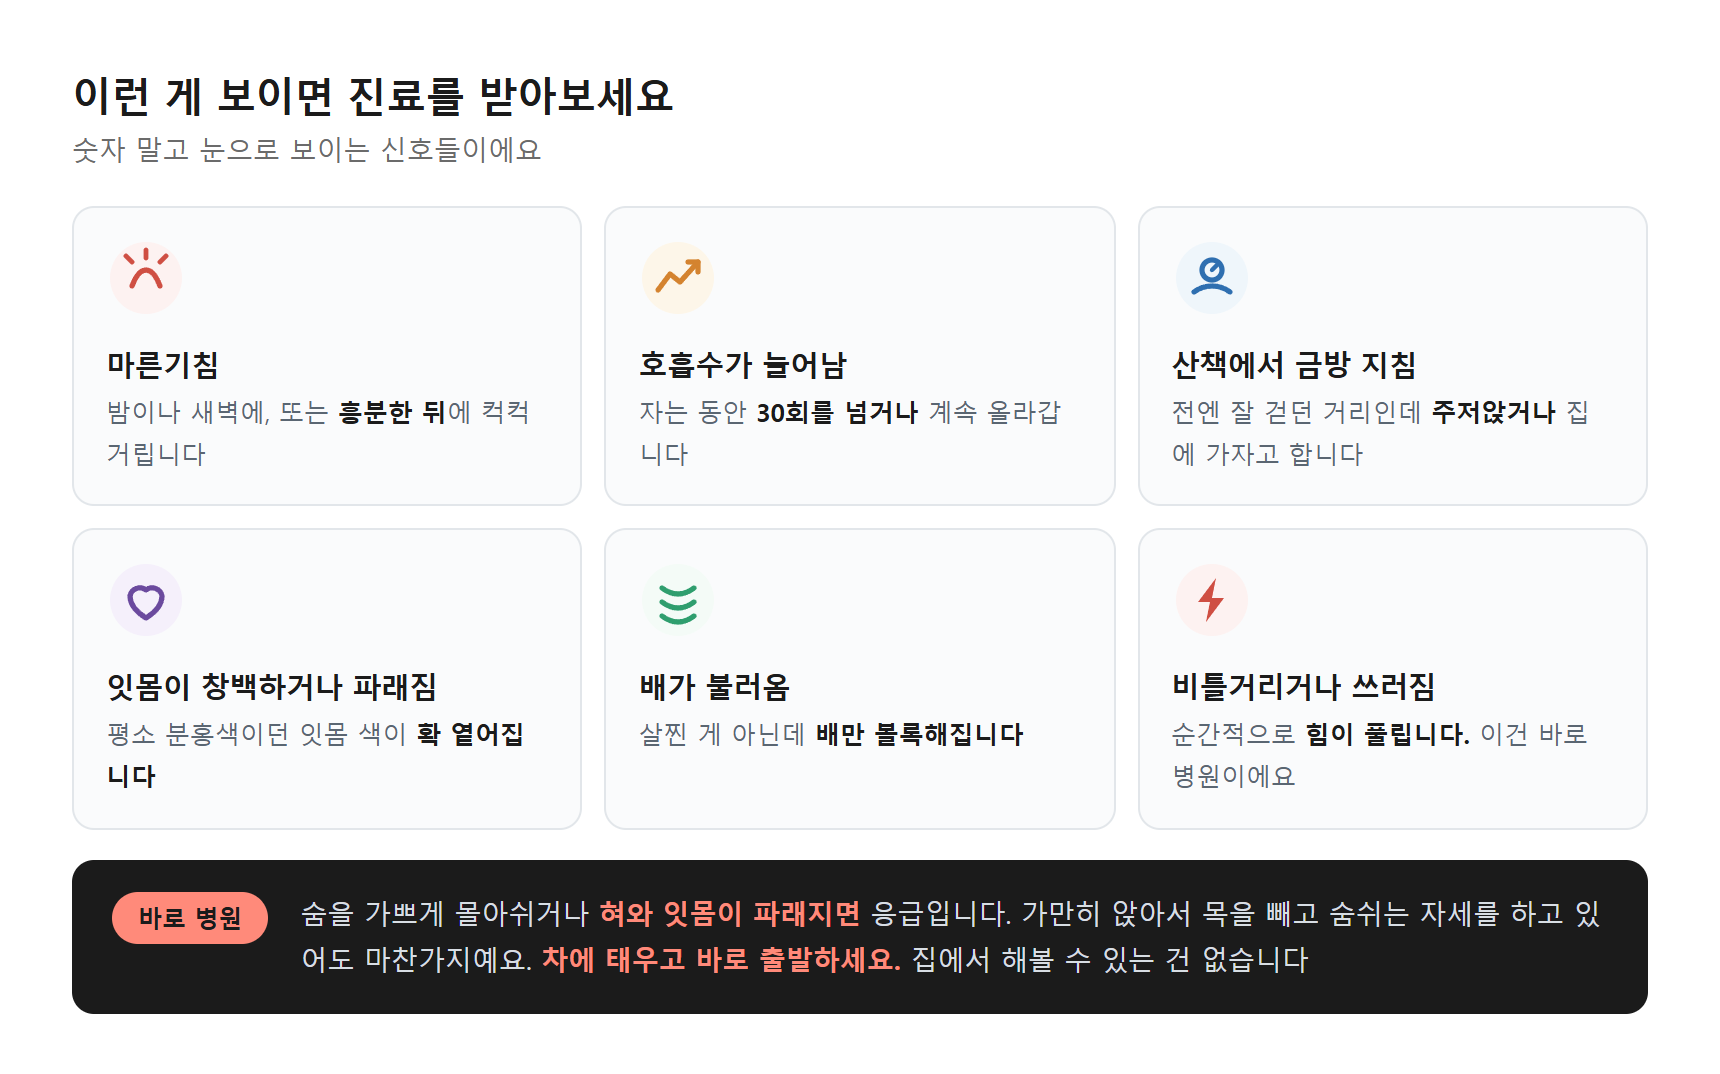
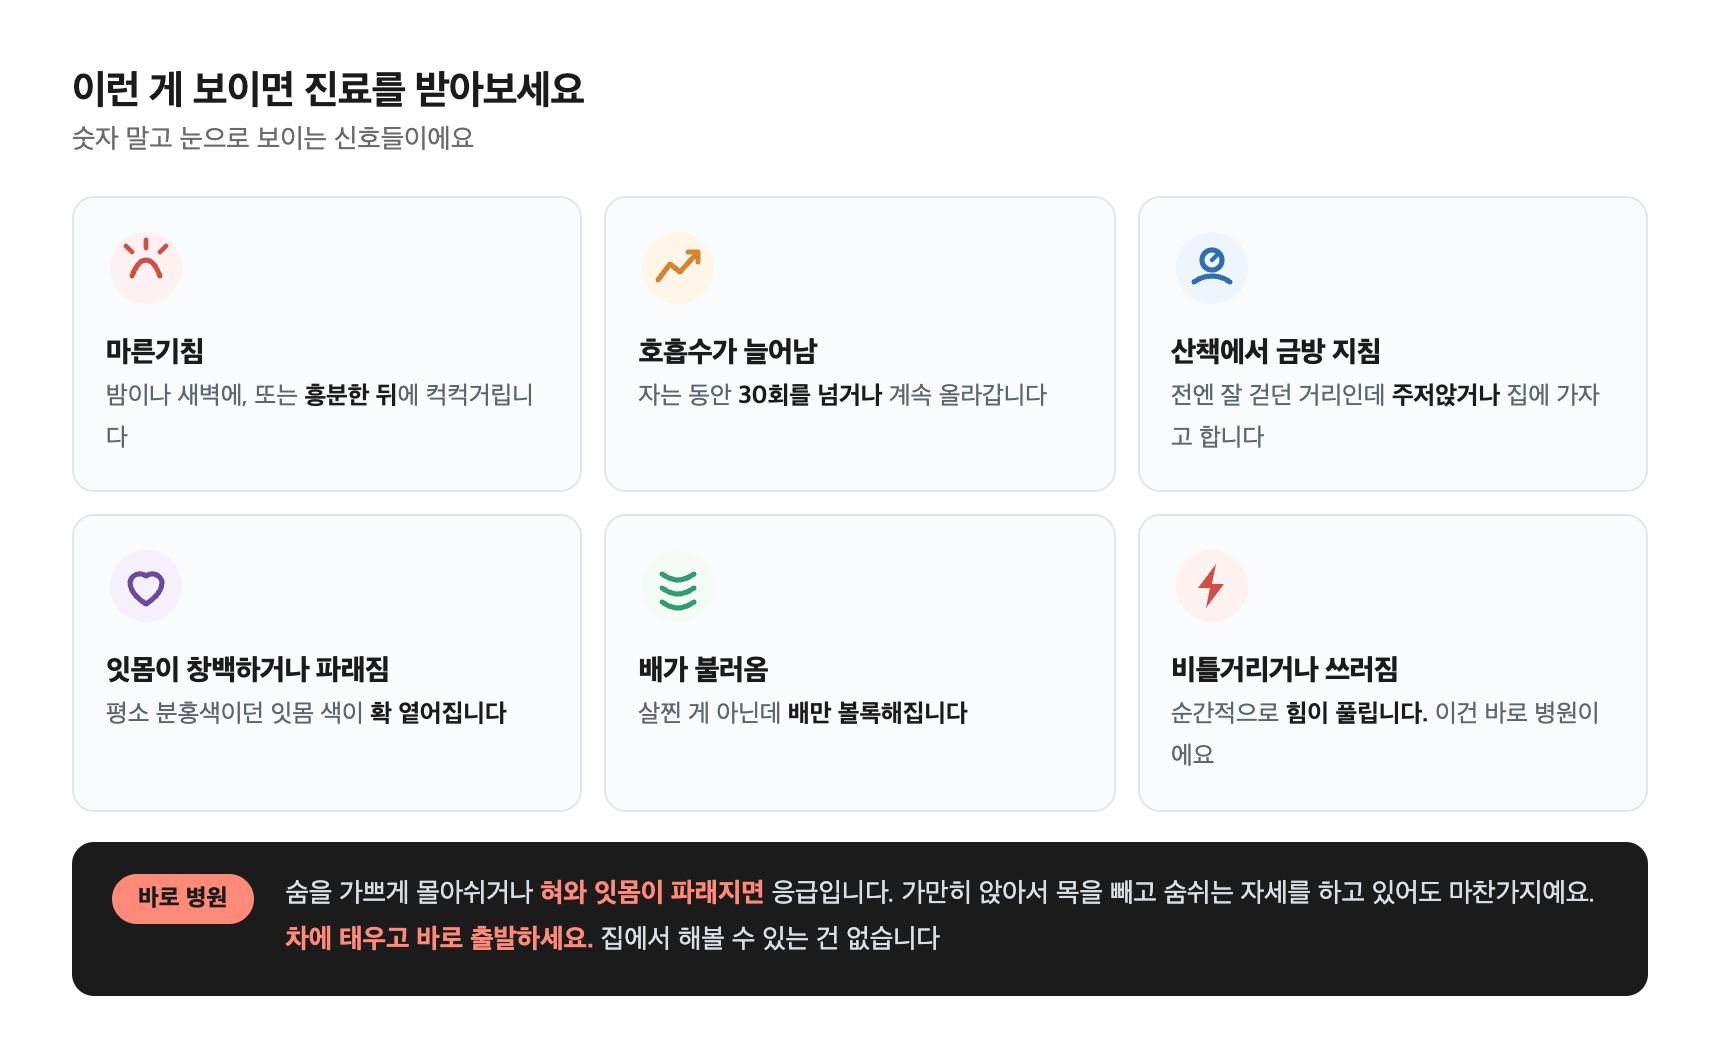
실손24 실손보험 청구 원고 + 도식 6종 (앱 3단계·소멸시효 3년·참여기관 확대)

diff --git a/art/si02-app.html b/art/si02-app.html
@@ -1,0 +1,52 @@
+<!doctype html>
+<meta charset="utf-8" />
+<style>
+  * { box-sizing: border-box; margin: 0; padding: 0; }
+  body { background: #fff; }
+  #art { width: 860px; padding: 32px 40px 30px; background: #f2f7f7;
+    font-family: 'Pretendard','Malgun Gothic',-apple-system,sans-serif; color: #1f3a3a; }
+  h1 { font-size: 23px; letter-spacing: -0.6px; margin-bottom: 4px; }
+  .sub { font-size: 13.5px; color: #6e8585; margin-bottom: 22px; font-weight: 600; }
+  .steps { display: flex; align-items: stretch; gap: 8px; }
+  .step { flex: 1; background: #fff; border-radius: 16px; padding: 20px 16px 18px; text-align: center;
+    box-shadow: 0 6px 16px rgba(40,90,90,.08); border: 1px solid #dcece9; }
+  .n { width: 30px; height: 30px; border-radius: 50%; background: #0d9488; color: #fff; font-size: 15px;
+    font-weight: 800; display: flex; align-items: center; justify-content: center; margin: 0 auto 10px; }
+  .ic { height: 62px; display: flex; align-items: center; justify-content: center; }
+  .t { font-size: 15.5px; font-weight: 800; margin-top: 8px; }
+  .d { font-size: 12.5px; color: #5f7d7b; line-height: 1.5; margin-top: 5px; }
+  .ar { flex: none; display: flex; align-items: center; color: #9bc9c3; font-size: 22px; font-weight: 800; }
+  .note { margin-top: 16px; background: #e3f0ef; border-radius: 12px; padding: 13px 18px; font-size: 13px;
+    color: #3f5f5d; line-height: 1.6; text-align: center; }
+  .note b { color: #0d8074; }
+</style>
+
+<div id="art">
+  <h1>실손24 앱, 3단계면 끝나요</h1>
+  <p class="sub">챙길 서류 하나도 없어요. 앱 안에서 다 돼요</p>
+
+  <div class="steps">
+    <div class="step">
+      <div class="n">1</div>
+      <div class="ic"><svg width="54" height="56" viewBox="0 0 54 56"><rect x="15" y="4" width="24" height="42" rx="5" fill="#0d9488"/><rect x="19" y="9" width="16" height="28" rx="2" fill="#e6f6f3"/><path d="M27,16 v11 M23,23 l4,4 4,-4" stroke="#0d9488" stroke-width="2.5" fill="none" stroke-linecap="round" stroke-linejoin="round"/><circle cx="27" cy="41" r="2" fill="#e6f6f3"/></svg></div>
+      <div class="t">앱 설치</div>
+      <div class="d">'실손24' 검색<br />(보험개발원 공식)</div>
+    </div>
+    <div class="ar">→</div>
+    <div class="step">
+      <div class="n">2</div>
+      <div class="ic"><svg width="54" height="56" viewBox="0 0 54 56"><rect x="8" y="8" width="38" height="40" rx="4" fill="#fff" stroke="#0d9488" stroke-width="2"/><g><rect x="14" y="16" width="7" height="7" rx="1.5" fill="#0d9488"/><path d="M15.5,19.5 l1.5,1.5 2.5,-3" stroke="#fff" stroke-width="1.5" fill="none" stroke-linecap="round" stroke-linejoin="round"/><line x1="25" y1="19" x2="40" y2="19" stroke="#b7d8d3" stroke-width="3" stroke-linecap="round"/></g><g><rect x="14" y="27" width="7" height="7" rx="1.5" fill="#0d9488"/><path d="M15.5,30.5 l1.5,1.5 2.5,-3" stroke="#fff" stroke-width="1.5" fill="none" stroke-linecap="round" stroke-linejoin="round"/><line x1="25" y1="30" x2="40" y2="30" stroke="#b7d8d3" stroke-width="3" stroke-linecap="round"/></g><g><rect x="14" y="38" width="7" height="7" rx="1.5" fill="#cfe6e2"/><line x1="25" y1="41" x2="36" y2="41" stroke="#dcece9" stroke-width="3" stroke-linecap="round"/></g></svg></div>
+      <div class="t">진료내역 선택</div>
+      <div class="d">병원·약국 방문<br />기록에서 고르기</div>
+    </div>
+    <div class="ar">→</div>
+    <div class="step">
+      <div class="n">3</div>
+      <div class="ic"><svg width="54" height="56" viewBox="0 0 54 56"><path d="M8,26 L46,10 L38,48 L26,36 Z" fill="#0d9488"/><path d="M46,10 L26,36 L26,46 L33,38" fill="#0b7a6f"/><circle cx="40" cy="42" r="12" fill="#3fb98a"/><path d="M35,42 l3.5,3.5 6,-7" stroke="#fff" stroke-width="2.5" fill="none" stroke-linecap="round" stroke-linejoin="round"/></svg></div>
+      <div class="t">자동 전송</div>
+      <div class="d">보험사로 바로 전송<br />10분이면 청구 완료</div>
+    </div>
+  </div>
+
+  <div class="note">본인 것뿐 아니라 <b>자녀가 부모님 것</b>을, 배우자·위임 대리인이 대신 청구하는 것도 돼요</div>
+</div>

diff --git a/art/si01-change.html b/art/si01-change.html
@@ -1,0 +1,59 @@
+<!doctype html>
+<meta charset="utf-8" />
+<style>
+  * { box-sizing: border-box; margin: 0; padding: 0; }
+  body { background: #fff; }
+  #art { width: 860px; padding: 32px 40px 30px; background: #f2f7f7;
+    font-family: 'Pretendard','Malgun Gothic',-apple-system,sans-serif; color: #1f3a3a; }
+  h1 { font-size: 23px; letter-spacing: -0.6px; margin-bottom: 4px; }
+  .sub { font-size: 13.5px; color: #6e8585; margin-bottom: 22px; font-weight: 600; }
+  .row { display: flex; align-items: center; gap: 14px; }
+  .card { flex: 1; background: #fff; border-radius: 16px; padding: 20px; box-shadow: 0 6px 16px rgba(40,90,90,.08); }
+  .card.old { border: 1px solid #ecdcd6; }
+  .card.new { border: 1.5px solid #9bd8cf; }
+  .tag { font-size: 13px; font-weight: 800; padding: 4px 12px; border-radius: 14px; display: inline-block; margin-bottom: 12px; }
+  .old .tag { background: #f6e6e0; color: #b5603f; } .new .tag { background: #d8f2ec; color: #0d8074; }
+  .scene { height: 118px; display: flex; align-items: center; justify-content: center; gap: 6px; }
+  .card p { font-size: 13.5px; color: #52706e; line-height: 1.5; margin-top: 8px; text-align: center; }
+  .card p b { color: #1f3a3a; }
+  .arrow { flex: none; font-size: 30px; color: #0d9488; font-weight: 800; }
+</style>
+
+<div id="art">
+  <h1>실손보험 청구, 이렇게 바뀌었어요</h1>
+  <p class="sub">병원 서류 떼서 팩스·방문하던 게, 앱 하나로 끝나요</p>
+
+  <div class="row">
+    <div class="card old">
+      <span class="tag">예전</span>
+      <div class="scene">
+        <svg width="150" height="112" viewBox="0 0 150 112">
+          <rect x="24" y="20" width="60" height="76" rx="4" fill="#fff" stroke="#d9c3ba" stroke-width="2" transform="rotate(-6 54 58)"/>
+          <rect x="40" y="14" width="60" height="76" rx="4" fill="#fff" stroke="#d9c3ba" stroke-width="2"/>
+          <g stroke="#cbb6ad" stroke-width="2.5"><line x1="50" y1="30" x2="90" y2="30"/><line x1="50" y1="40" x2="90" y2="40"/><line x1="50" y1="50" x2="78" y2="50"/></g>
+          <text x="70" y="76" text-anchor="middle" font-size="13" font-weight="800" fill="#b5603f">진단서</text>
+          <circle cx="112" cy="70" r="20" fill="#f6e6e0"/><path d="M104,70 l14,0 M111,63 l0,14" stroke="#b5603f" stroke-width="3" stroke-linecap="round"/>
+        </svg>
+      </div>
+      <p>진단서·영수증·세부내역 <b>직접 발급</b><br />→ 팩스·방문·우편 제출</p>
+    </div>
+
+    <div class="arrow">→</div>
+
+    <div class="card new">
+      <span class="tag">지금 (실손24)</span>
+      <div class="scene">
+        <svg width="150" height="112" viewBox="0 0 150 112">
+          <rect x="52" y="10" width="46" height="92" rx="9" fill="#0d9488"/>
+          <rect x="57" y="20" width="36" height="66" rx="3" fill="#e6f6f3"/>
+          <path d="M67,52 l6,7 12,-15" fill="none" stroke="#0d9488" stroke-width="4" stroke-linecap="round" stroke-linejoin="round"/>
+          <circle cx="75" cy="94" r="3" fill="#e6f6f3"/>
+          <path d="M108,40 q12,-6 12,8 q0,10 -12,14" fill="none" stroke="#0d9488" stroke-width="3" stroke-linecap="round" stroke-dasharray="2 4"/>
+        </svg>
+      </div>
+      <p>앱에서 <b>진료내역 선택</b>만 하면<br />→ 보험사로 자동 전송 (10분)</p>
+    </div>
+  </div>
+
+  <div style="margin-top:16px;background:#e3f0ef;border-radius:12px;padding:13px 18px;font-size:13px;color:#3f5f5d;line-height:1.6;text-align:center;">서류 떼러 병원 다시 안 가도 돼요. <b style="color:#0d8074;">종이 없이 앱으로</b> 끝나는 게 핵심이에요</div>
+</div>

diff --git a/art/si03-clinic.html b/art/si03-clinic.html
@@ -1,0 +1,48 @@
+<!doctype html>
+<meta charset="utf-8" />
+<style>
+  * { box-sizing: border-box; margin: 0; padding: 0; }
+  body { background: #fff; }
+  #art { width: 860px; padding: 32px 40px 30px; background: #f2f7f7;
+    font-family: 'Pretendard','Malgun Gothic',-apple-system,sans-serif; color: #1f3a3a; }
+  h1 { font-size: 23px; letter-spacing: -0.6px; margin-bottom: 4px; }
+  .sub { font-size: 13.5px; color: #6e8585; margin-bottom: 22px; font-weight: 600; }
+  .tl { display: flex; align-items: stretch; gap: 0; margin-bottom: 16px; }
+  .stage { flex: 1; background: #fff; border-radius: 16px; padding: 18px 20px; box-shadow: 0 6px 16px rgba(40,90,90,.08); border: 1px solid #dcece9; }
+  .stage .dt { font-size: 13px; font-weight: 800; color: #0d9488; }
+  .stage .wh { font-size: 16.5px; font-weight: 800; margin-top: 4px; }
+  .stage .cnt { font-size: 13px; color: #5f7d7b; margin-top: 4px; }
+  .stage.a2 { border-color: #9bd8cf; background: #f0faf8; }
+  .arr { flex: none; display: flex; align-items: center; padding: 0 12px; color: #0d9488; font-size: 24px; font-weight: 800; }
+  .find { background: #fff; border: 1.5px solid #cfe6e2; border-radius: 14px; padding: 16px 18px; display: flex; align-items: center; gap: 14px; }
+  .find .ic { flex: none; }
+  .find .tx { font-size: 14px; color: #3f5f5d; line-height: 1.5; }
+  .find .tx b { color: #0d8074; }
+</style>
+
+<div id="art">
+  <h1>단, '참여 기관'에서만 돼요</h1>
+  <p class="sub">2025년부터 의원·약국까지 확 늘어서, 이제 웬만한 곳은 다 돼요</p>
+
+  <div class="tl">
+    <div class="stage">
+      <div class="dt">2024. 10. 25</div>
+      <div class="wh">병원급 시작</div>
+      <div class="cnt">종합병원·상급병원 등</div>
+    </div>
+    <div class="arr">→</div>
+    <div class="stage a2">
+      <div class="dt">2025. 10. 25</div>
+      <div class="wh">의원·약국 확대</div>
+      <div class="cnt">약 <b style="color:#0d8074;">9만 6천 개</b> 기관 추가</div>
+    </div>
+  </div>
+
+  <div class="find">
+    <div class="ic"><svg width="52" height="52" viewBox="0 0 52 52">
+      <path d="M26,6 C16,6 9,13 9,23 C9,34 26,46 26,46 C26,46 43,34 43,23 C43,13 36,6 26,6 Z" fill="#0d9488"/>
+      <circle cx="26" cy="22" r="8" fill="#fff"/>
+      <path d="M22,22 h8 M26,18 v8" stroke="#0d9488" stroke-width="2.5" stroke-linecap="round"/></svg></div>
+    <div class="tx"><b>내 주변 참여 기관 찾기</b> — 실손24 앱이나 지도 앱에서 '실손보험 청구 간소화 서비스'를 검색하면 위치 기준으로 참여 병원·약국이 나와요</div>
+  </div>
+</div>

diff --git a/art/tc-silson.html b/art/tc-silson.html
@@ -1,0 +1,43 @@
+<!doctype html>
+<meta charset="utf-8" />
+<style>
+  * { box-sizing: border-box; margin: 0; padding: 0; }
+  body { background: #fff; }
+  #art { width: 800px; height: 800px; padding: 74px 62px; background: linear-gradient(160deg,#e8f5f2,#c3e6df);
+    font-family: 'Pretendard','Malgun Gothic',-apple-system,sans-serif; color: #163b36;
+    display: flex; flex-direction: column; justify-content: center; position: relative; }
+  .tag { display: inline-block; align-self: flex-start; background: #0d9488; color: #fff;
+    font-size: 21px; font-weight: 800; padding: 10px 22px; border-radius: 30px; margin-bottom: 32px; }
+  h1 { font-size: 60px; line-height: 1.2; letter-spacing: -2px; font-weight: 800; }
+  h1 .hl { color: #0d8074; }
+  .sub { margin-top: 26px; font-size: 25px; color: #3f6a63; font-weight: 600; }
+  .sub b { color: #b5603f; }
+  .ill { position: absolute; top: 84px; right: 54px; filter: drop-shadow(0 12px 24px rgba(20,90,80,.2)); }
+  .foot { position: absolute; bottom: 56px; right: 62px; font-size: 20px; color: #6a9089; font-weight: 700; }
+</style>
+
+<div id="art">
+  <div class="ill">
+    <svg width="250" height="220" viewBox="0 0 250 220">
+      <!-- 사라지는 종이서류 -->
+      <g opacity="0.55">
+        <rect x="16" y="40" width="70" height="90" rx="5" fill="#fff" stroke="#c7b6ad" stroke-width="2" transform="rotate(-12 51 85)"/>
+        <g stroke="#d8c8bf" stroke-width="3" transform="rotate(-12 51 85)"><line x1="30" y1="60" x2="72" y2="60"/><line x1="30" y1="72" x2="72" y2="72"/><line x1="30" y1="84" x2="58" y2="84"/></g>
+        <line x1="20" y1="44" x2="82" y2="126" stroke="#d9534f" stroke-width="4" stroke-linecap="round"/>
+      </g>
+      <!-- 실손24 폰 -->
+      <rect x="118" y="24" width="112" height="180" rx="20" fill="#0d9488"/>
+      <rect x="130" y="46" width="88" height="128" rx="6" fill="#eafaf7"/>
+      <circle cx="174" cy="94" r="30" fill="#d3f0ea"/>
+      <path d="M160,94 l10,11 20,-24" fill="none" stroke="#0d9488" stroke-width="7" stroke-linecap="round" stroke-linejoin="round"/>
+      <rect x="146" y="134" width="56" height="8" rx="4" fill="#bfe4dd"/>
+      <rect x="154" y="150" width="40" height="7" rx="3.5" fill="#d3ebe6"/>
+      <circle cx="174" cy="192" r="6" fill="#d3f0ea"/>
+    </svg>
+  </div>
+
+  <div class="tag">실손보험 청구</div>
+  <h1>실손24로<br /><span class="hl">서류 없이 청구</span></h1>
+  <p class="sub">앱 3단계 · 못 챙긴 <b>3년치 병원비</b>까지</p>
+  <div class="foot">heelovee.tistory.com</div>
+</div>

diff --git a/art/si04-expiry.html b/art/si04-expiry.html
@@ -1,0 +1,37 @@
+<!doctype html>
+<meta charset="utf-8" />
+<style>
+  * { box-sizing: border-box; margin: 0; padding: 0; }
+  body { background: #fff; }
+  #art { width: 860px; padding: 32px 40px 32px; background: #f2f7f7;
+    font-family: 'Pretendard','Malgun Gothic',-apple-system,sans-serif; color: #1f3a3a; }
+  h1 { font-size: 23px; letter-spacing: -0.6px; margin-bottom: 4px; }
+  .sub { font-size: 13.5px; color: #6e8585; margin-bottom: 26px; font-weight: 600; }
+  .bar { display: flex; height: 54px; border-radius: 12px; overflow: hidden; box-shadow: 0 6px 15px rgba(40,90,90,.08); }
+  .gone { flex: 0.8; background: #d3dbda; display: flex; align-items: center; justify-content: center; color: #7a8a89; font-size: 14px; font-weight: 800; }
+  .ok { flex: 2.2; background: linear-gradient(90deg,#3fb98a,#0d9488); display: flex; align-items: center; justify-content: center; color: #fff; font-size: 15px; font-weight: 800; }
+  .scale { display: flex; margin-top: 9px; font-size: 12.5px; font-weight: 700; color: #5f7d7b; }
+  .scale .a { flex: 0.8; text-align: left; } .scale .b { flex: 2.2; text-align: right; }
+  .hook { margin-top: 22px; background: #fff; border: 1.5px solid #9bd8cf; border-radius: 14px; padding: 16px 20px;
+    font-size: 14.5px; color: #26463f; line-height: 1.6; }
+  .hook b { color: #0d8074; }
+  .note { margin-top: 12px; font-size: 12.5px; color: #8a9c9a; line-height: 1.6; text-align: center; }
+</style>
+
+<div id="art">
+  <h1>3년 안에 낸 병원비, 아직 청구할 수 있어요</h1>
+  <p class="sub">실손 청구권 소멸시효는 '3년' — 놓친 병원비가 곧 숨은 돈이에요</p>
+
+  <div class="bar">
+    <div class="gone">3년 지남 · 소멸</div>
+    <div class="ok">최근 3년 · 지금도 청구 가능 →</div>
+  </div>
+  <div class="scale">
+    <span class="a">← 청구 못 함</span>
+    <span class="b">오늘</span>
+  </div>
+
+  <div class="hook">💡 감기 진료, 물리치료, 약값처럼 <b>소액이라 깜빡하고 안 낸 병원비</b> 있으시죠? 최근 3년 안에 낸 거라면 실손24로 <b>지금 한 번에 몰아서 청구</b>할 수 있어요</div>
+
+  <p class="note">※ 소멸시효는 치료 완료일(또는 진료비 납부일)을 기준으로 3년이에요. 정확한 기산일·보장 여부는 가입한 보험사에 확인하세요</p>
+</div>

diff --git a/art/si05-check.html b/art/si05-check.html
@@ -1,0 +1,30 @@
+<!doctype html>
+<meta charset="utf-8" />
+<style>
+  * { box-sizing: border-box; margin: 0; padding: 0; }
+  body { background: #fff; }
+  #art { width: 860px; padding: 32px 40px 30px; background: #f2f7f7;
+    font-family: 'Pretendard','Malgun Gothic',-apple-system,sans-serif; color: #1f3a3a; }
+  h1 { font-size: 23px; letter-spacing: -0.6px; margin-bottom: 4px; }
+  .sub { font-size: 13.5px; color: #6e8585; margin-bottom: 20px; font-weight: 600; }
+  .list { display: flex; flex-direction: column; gap: 11px; }
+  .item { background: #fff; border-radius: 13px; padding: 15px 18px; display: flex; align-items: flex-start; gap: 14px;
+    box-shadow: 0 5px 13px rgba(40,90,90,.06); border: 1px solid #dcece9; }
+  .bx { flex: none; width: 26px; height: 26px; border-radius: 8px; display: flex; align-items: center; justify-content: center;
+    font-size: 15px; font-weight: 800; color: #fff; }
+  .ok { background: #0d9488; } .warn { background: #e0932e; }
+  .tx { font-size: 14.5px; line-height: 1.5; color: #37544f; padding-top: 1px; }
+  .tx b { color: #1f3a3a; }
+</style>
+
+<div id="art">
+  <h1>청구 전, 이것만 확인하세요</h1>
+  <p class="sub">대부분 되지만 몇 가지 예외가 있어요</p>
+
+  <div class="list">
+    <div class="item"><div class="bx ok">✓</div><div class="tx"><b>2024년 10월 25일 이후 진료분</b>만 돼요. 그 전 진료는 예전처럼 서류로 청구해야 해요</div></div>
+    <div class="item"><div class="bx ok">✓</div><div class="tx"><b>참여 기관</b>에서 진료·조제한 것만 돼요. 앱에서 참여 여부를 먼저 확인하세요</div></div>
+    <div class="item"><div class="bx warn">!</div><div class="tx"><b>입원·고액 진료</b> 등은 일부 서류가 따로 필요할 수 있어요. 앱 안내를 따라주세요</div></div>
+    <div class="item"><div class="bx warn">!</div><div class="tx">내 보험이 보장하는지, <b>자기부담금·한도</b>는 가입한 보험사·약관에서 확인하세요 (청구와 보장은 별개예요)</div></div>
+  </div>
+</div>
